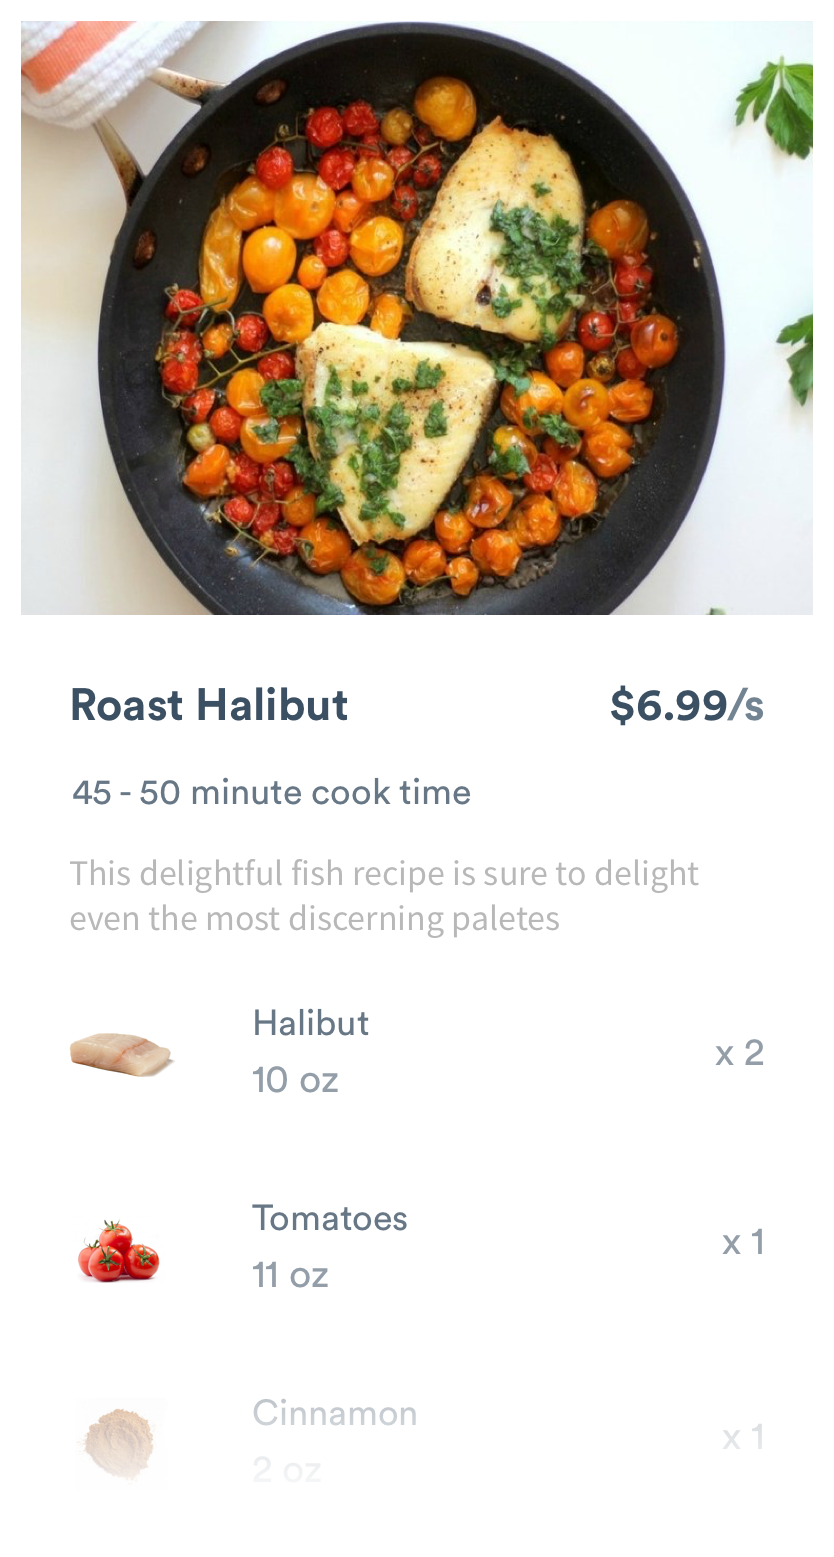
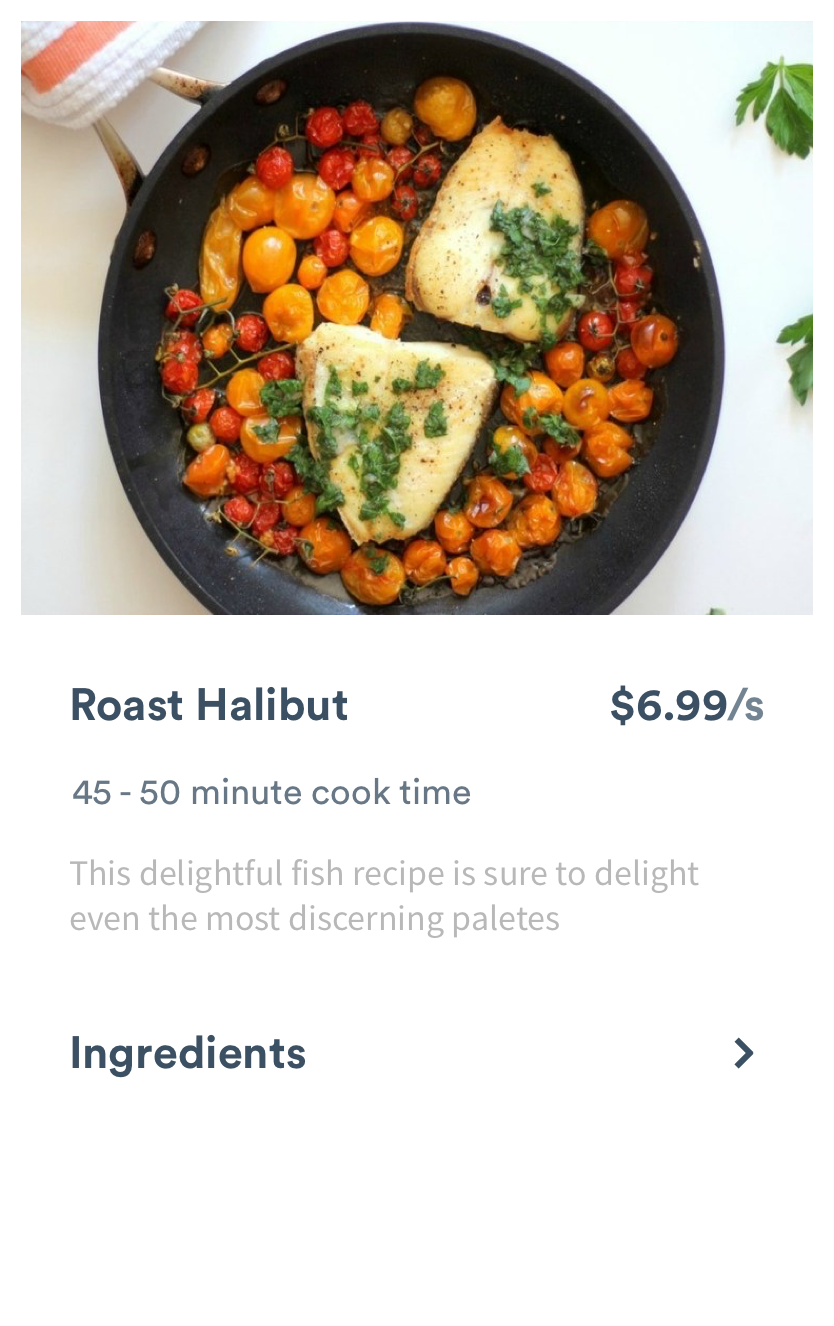
flipping cards now works

diff --git a/PerchApp/MealSelectionViewController.m b/PerchApp/MealSelectionViewController.m
@@ -8,6 +8,8 @@
 
 #import "MealSelectionViewController.h"
 #import "PerchApp-Swift.h"
+#import "RecipeCardView.h"
+#import "RecipeObject.h"
 
 @interface MealSelectionViewController () <FSPagerViewDelegate, FSPagerViewDataSource>
 
@@ -15,6 +17,8 @@
 @property (weak, nonatomic) FSPagerView *pagerView;
 @property (strong, nonatomic) NSArray *recipes;
 @property (weak, nonatomic) IBOutlet UIImageView *topBar;
+
+@property (strong, nonatomic) NSMutableArray *recipeViews;
 
 @end
 
@@ -40,14 +44,30 @@
     
     pagerView.transformer = [[FSPagerViewTransformer alloc] initWithType:FSPagerViewTransformerTypeLinear];
     
-    CGAffineTransform transform = CGAffineTransformMakeScale(1.2 * 0.535, 1.2);
+    CGAffineTransform transform = CGAffineTransformMakeScale(1.2 * 0.6, 1.2);
     self.pagerView.itemSize = CGSizeApplyAffineTransform(self.pagerView.frame.size, transform);
     
 //    float widthRatio = 834 / 1557;
 //    NSLog(@"%f", pagerView.frame.size.height);
 //    self.pagerView.itemSize = CGSizeMake((int)(pagerView.frame.size.height * widthRatio), pagerView.frame.size.height);
     
-    self.recipes = @[@"chicken.png", @"halibut.png", @"pizza.png"];
+    NSMutableArray *recipes = [[NSMutableArray alloc] init];
+    
+    RecipeObject *rec = [[RecipeObject alloc] init];
+    rec.frontImageName = @"tikka.png";
+    rec.backImageName = @"tikka-back.png";
+    [recipes addObject:rec];
+    
+    RecipeObject *rec2 = [[RecipeObject alloc] init];
+    rec2.frontImageName = @"halibut.png";
+    rec2.backImageName = @"halibut-back.png";
+    [recipes addObject:rec2];
+
+    RecipeObject *rec3 = [[RecipeObject alloc] init];
+    rec3.frontImageName = @"pizza.png";
+    rec3.backImageName = @"pizza-back.png";
+    [recipes addObject:rec3];
+    self.recipes = recipes;
 }
 
 
@@ -66,19 +86,43 @@
 - (FSPagerViewCell *)pagerView:(FSPagerView *)pagerView cellForItemAtIndex:(NSInteger)index
 {
     FSPagerViewCell *cell = [pagerView dequeueReusableCellWithReuseIdentifier:@"cell" atIndex:index];
-    cell.imageView.image = [UIImage imageNamed:[self.recipes objectAtIndex:index]];
-    cell.imageView.contentMode = UIViewContentModeScaleAspectFit;
-    cell.imageView.clipsToBounds = YES;
+    
+    if (self.recipeViews.count <= index) {
+        RecipeCardView *card = [[[NSBundle mainBundle] loadNibNamed:@"RecipeCardView" owner:self options:nil] objectAtIndex:0];
+        
+        [card addRecipeObject:[self.recipes objectAtIndex:index]];
+        
+        [cell addSubview:card];
+        card.frame = cell.contentView.bounds;
+        
+        [self.recipeViews setObject:card atIndexedSubscript:index];
+
+    }
+    
     return cell;
 }
 
+
 #pragma mark - FSPagerView Delegate
+
+#define FLIP_ANIMATION_DURATION 0.3
 
 - (void)pagerView:(FSPagerView *)pagerView didSelectItemAtIndex:(NSInteger)index
 {
-    [pagerView deselectItemAtIndex:index animated:YES];
-    [pagerView scrollToItemAtIndex:index animated:YES];
-//    self.pageControl.currentPage = index;
+    
+    // Flip Animation
+    UIViewAnimationOptions options = UIViewAnimationOptionTransitionFlipFromLeft | UIViewAnimationOptionAllowUserInteraction;
+    
+    RecipeCardView *card = [self.recipeViews objectAtIndex:index];
+    
+    
+    [UIView transitionWithView:card
+                      duration:FLIP_ANIMATION_DURATION
+                       options:options
+                    animations:^{
+                        [card flipOver];
+                    }
+                    completion:NULL];
 }
 
 - (void)pagerViewDidScroll:(FSPagerView *)pagerView
@@ -92,6 +136,14 @@
 - (void)didReceiveMemoryWarning {
     [super didReceiveMemoryWarning];
     // Dispose of any resources that can be recreated.
+}
+
+- (NSMutableArray *)recipeViews
+{
+    if (!_recipeViews) {
+        _recipeViews = [[NSMutableArray alloc] init];
+    }
+    return _recipeViews;
 }
 
 /*

diff --git a/PerchApp/View/RecipeCardView.m b/PerchApp/View/RecipeCardView.m
@@ -1,0 +1,75 @@
+//
+//  RecipeCardView.m
+//  PerchApp
+//
+//  Created by Joel Green on 4/15/18.
+//  Copyright © 2018 Perch. All rights reserved.
+//
+
+#import "RecipeCardView.h"
+
+@implementation RecipeCardView
+
+- (id)init {
+    self = [super init];
+    if (self) {
+        [self initHelper];
+    }
+    return self;
+}
+
+- (id)initWithFrame:(CGRect)theFrame {
+    self = [super initWithFrame:theFrame];
+    if (self) {
+        [self initHelper];
+    }
+    return self;
+}
+
+- (id)initWithCoder:(NSCoder *)decoder {
+    self = [super initWithCoder:decoder];
+    if (self) {
+        [self initHelper];
+    }
+    return self;
+}
+
+- (void) initHelper {
+    self.addBasketButton.imageView.contentMode = UIViewContentModeScaleAspectFit;
+    self.addBasketButton.imageView.clipsToBounds = YES;
+}
+
+- (void)addRecipeObject:(RecipeObject *)recipeObject
+{
+    self.recipeObject = recipeObject;
+    self.imageView.image = [UIImage imageNamed:recipeObject.frontImageName];
+    self.imageView.contentMode = UIViewContentModeScaleAspectFit;
+    self.imageView.clipsToBounds = YES;
+}
+
+BOOL isFlipped = NO;
+
+- (void)flipOver
+{
+    if (!isFlipped) {
+        self.imageView.image = [UIImage imageNamed:self.recipeObject.backImageName];
+//        self.addBasketButton.hidden = YES;
+    } else {
+        self.imageView.image = [UIImage imageNamed:self.recipeObject.frontImageName];
+//        self.addBasketButton.hidden = NO;
+    }
+    isFlipped = !isFlipped;
+}
+
+- (IBAction)addBasketClicked:(id)sender {
+}
+
+/*
+// Only override drawRect: if you perform custom drawing.
+// An empty implementation adversely affects performance during animation.
+- (void)drawRect:(CGRect)rect {
+    // Drawing code
+}
+*/
+
+@end

diff --git a/PerchApp/View/RecipeCardView.h b/PerchApp/View/RecipeCardView.h
@@ -1,0 +1,24 @@
+//
+//  RecipeCardView.h
+//  PerchApp
+//
+//  Created by Joel Green on 4/15/18.
+//  Copyright © 2018 Perch. All rights reserved.
+//
+
+#import <UIKit/UIKit.h>
+#import "RecipeObject.h"
+
+@interface RecipeCardView : UIView
+
+@property (strong, nonatomic) RecipeObject *recipeObject;
+
+- (void)addRecipeObject:(RecipeObject *)recipeObject;
+
+- (void)flipOver;
+
+@property (weak, nonatomic) IBOutlet UIButton *addBasketButton;
+
+@property (weak, nonatomic) IBOutlet UIImageView *imageView;
+
+@end

diff --git a/PerchApp/Model/RecipeObject.h b/PerchApp/Model/RecipeObject.h
@@ -1,0 +1,16 @@
+//
+//  RecipeObject.h
+//  PerchApp
+//
+//  Created by Joel Green on 4/15/18.
+//  Copyright © 2018 Perch. All rights reserved.
+//
+
+#import <Foundation/Foundation.h>
+
+@interface RecipeObject : NSObject
+
+@property (strong, nonatomic) NSString *frontImageName;
+@property (strong, nonatomic) NSString *backImageName;
+
+@end

diff --git a/PerchApp/Model/RecipeObject.m b/PerchApp/Model/RecipeObject.m
@@ -1,0 +1,13 @@
+//
+//  RecipeObject.m
+//  PerchApp
+//
+//  Created by Joel Green on 4/15/18.
+//  Copyright © 2018 Perch. All rights reserved.
+//
+
+#import "RecipeObject.h"
+
+@implementation RecipeObject
+
+@end
